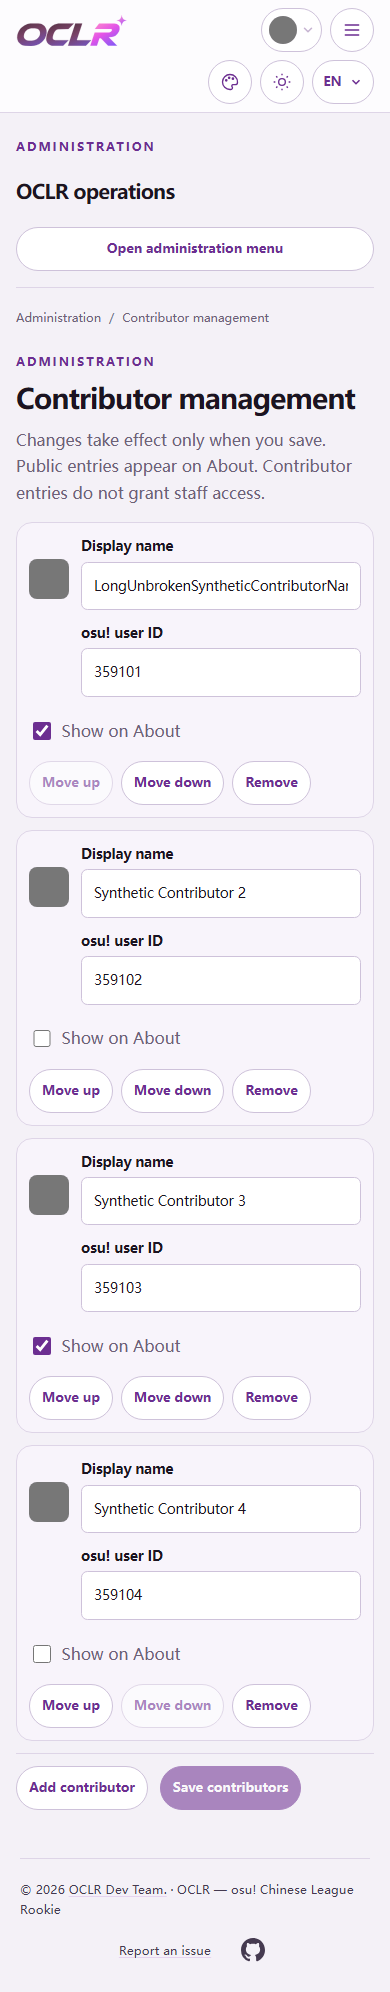
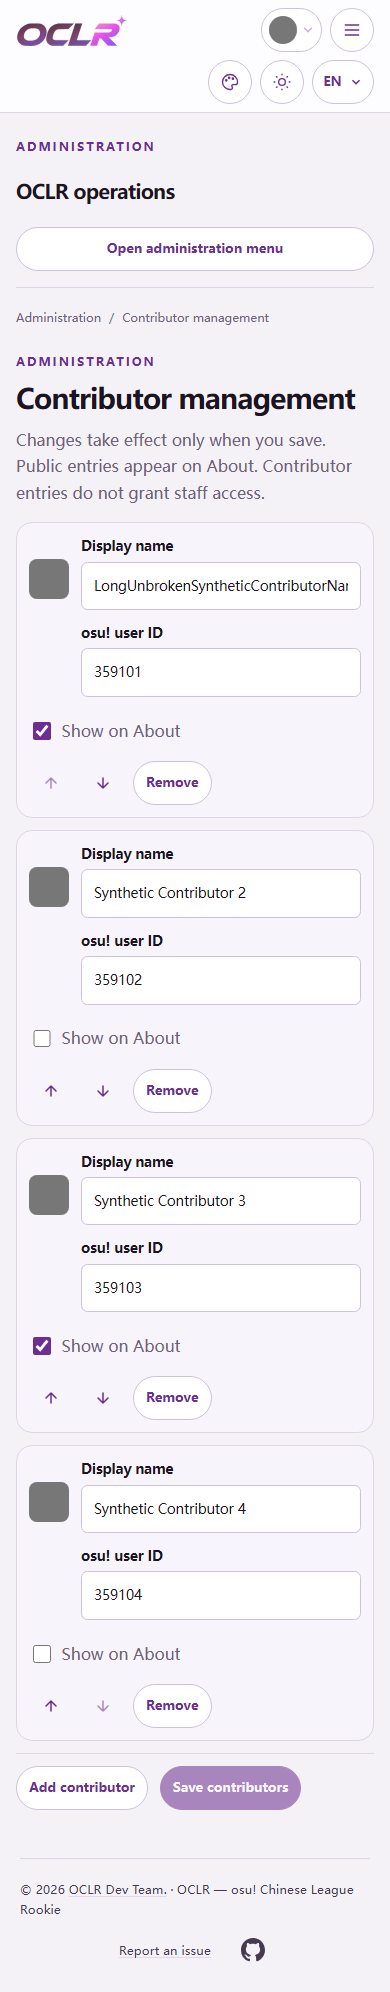
fix(contributors): use borderless arrows for reordering

diff --git a/src/components/contributor-manager.tsx b/src/components/contributor-manager.tsx
@@ -139,26 +139,54 @@ export function ContributorManager({
                 </label>
                 <div className="actions contributor-row-actions">
                   <button
-                    className="secondary"
+                    className="secondary contributor-move"
                     type="button"
                     disabled={index === 0}
                     aria-label={tr("Move contributor {number} up", {
                       number: index + 1,
                     })}
+                    title={tr("Move up")}
                     onClick={() => move(index, -1)}
                   >
-                    {tr("Move up")}
+                    <svg
+                      viewBox="0 0 24 24"
+                      width="20"
+                      height="20"
+                      fill="none"
+                      stroke="currentColor"
+                      strokeWidth="1.8"
+                      strokeLinecap="round"
+                      strokeLinejoin="round"
+                      aria-hidden="true"
+                      focusable="false"
+                    >
+                      <path d="m6 12 6-6 6 6M12 6v12" />
+                    </svg>
                   </button>
                   <button
-                    className="secondary"
+                    className="secondary contributor-move"
                     type="button"
                     disabled={index === entries.length - 1}
                     aria-label={tr("Move contributor {number} down", {
                       number: index + 1,
                     })}
+                    title={tr("Move down")}
                     onClick={() => move(index, 1)}
                   >
-                    {tr("Move down")}
+                    <svg
+                      viewBox="0 0 24 24"
+                      width="20"
+                      height="20"
+                      fill="none"
+                      stroke="currentColor"
+                      strokeWidth="1.8"
+                      strokeLinecap="round"
+                      strokeLinejoin="round"
+                      aria-hidden="true"
+                      focusable="false"
+                    >
+                      <path d="m6 12 6 6 6-6M12 6v12" />
+                    </svg>
                   </button>
                   <button
                     className="secondary"

diff --git a/src/app/globals.css b/src/app/globals.css
@@ -5496,6 +5496,22 @@ body:has([data-broadcast]) .site-shell {
   min-height: 44px;
   padding: 0.5rem 0.75rem;
 }
+.themed-site .contributor-manager .contributor-row-actions .contributor-move {
+  width: 44px;
+  height: 44px;
+  min-width: 44px;
+  padding: 0;
+  border: 0;
+  border-radius: var(--button-radius);
+  background: transparent;
+  box-shadow: none;
+}
+.themed-site
+  .contributor-manager
+  .contributor-row-actions
+  .contributor-move:hover:not(:disabled) {
+  background: var(--site-tint);
+}
 .contributor-public {
   display: flex;
   align-items: center;

diff --git a/docs/verification/issue-359/README.md b/docs/verification/issue-359/README.md
@@ -7,6 +7,10 @@ viewport. The page heading, explanatory text and list gaps also take less space.
 The footer separates Add from the primary Save action and reuses the existing
 translated “Unsaved changes” message. No new interface wording or API changes.
 
+The organizer's follow-up replaces the Move up / Move down text controls with
+borderless SVG arrows. Each arrow retains a 44px hit area, a translated hover
+title, its numbered accessible name, keyboard activation and disabled endpoints.
+
 The original save/revision contract, validation, public visibility, automatic
 audit, authorization and read-only wrapper are retained. New entries, edits,
 reordering, visibility changes and removals still require an explicit save.
@@ -65,6 +69,12 @@ The editable input retains its complete value even when its visible text scrolls
   so it does not depend on an ambient `ADMIN_OSU_IDS` shell setting.
 - Before/after capture tests also passed against the same isolated browser DB,
   using the repository's guarded Playwright server configuration.
+- The arrow follow-up passed lint/types, production build and all four contributor
+  browser tests again, including the full locale/theme/appearance matrix. The
+  current after images and geometry were recaptured from that production build.
+  This ran in a separate verification checkout while the requested live dev
+  preview continued to use its own database. The earlier full-suite, integration,
+  i18n and dependency-audit results above were not rerun for this visual change.
 
 ### Full-suite limitations
 
@@ -77,9 +87,14 @@ Windows symlink permissions and POSIX assumptions in durable media paths.
 check against the unchanged `7b402d6` baseline reproduced that failure. This change
 does not modify those implementations or claim a complete Linux CI pass.
 
-The full browser/remote matrix and CI were not run. Only clearly named local
+The full-site functional/remote browser matrices were not rerun; current CI is
+tracked on [Draft PR #394](https://github.com/OCLR-dev/OCLR-website/pull/394).
+Only clearly named local
 `oclr_issue359_test` and `oclr_issue359_browser_test` databases were migrated and
-used; the dedicated loopback PostgreSQL instance is stopped after verification.
+used. The initial verification stopped its loopback PostgreSQL instance; it was
+restarted for the organizer-requested interactive preview at
+`http://localhost:31359/admin/contributors`, using synthetic fixture data and the
+ordinary session checks. That preview remains running for review.
 No production operations, issue closure, main merge or deployment are performed.
 
 The layout follows the repository-required
